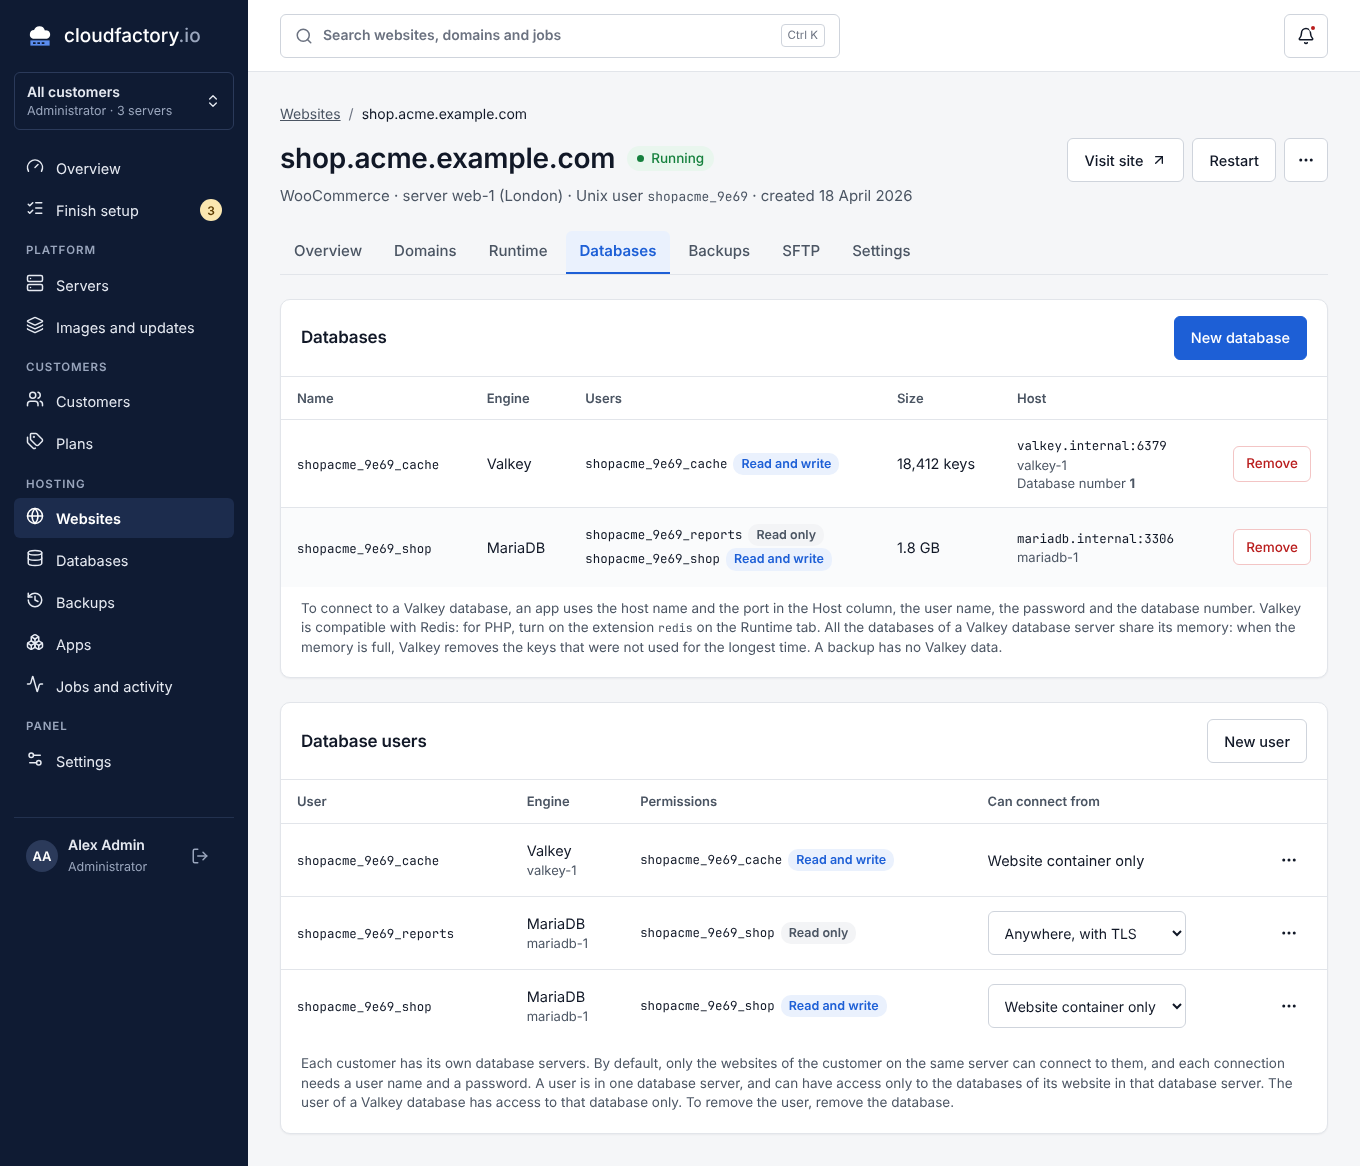
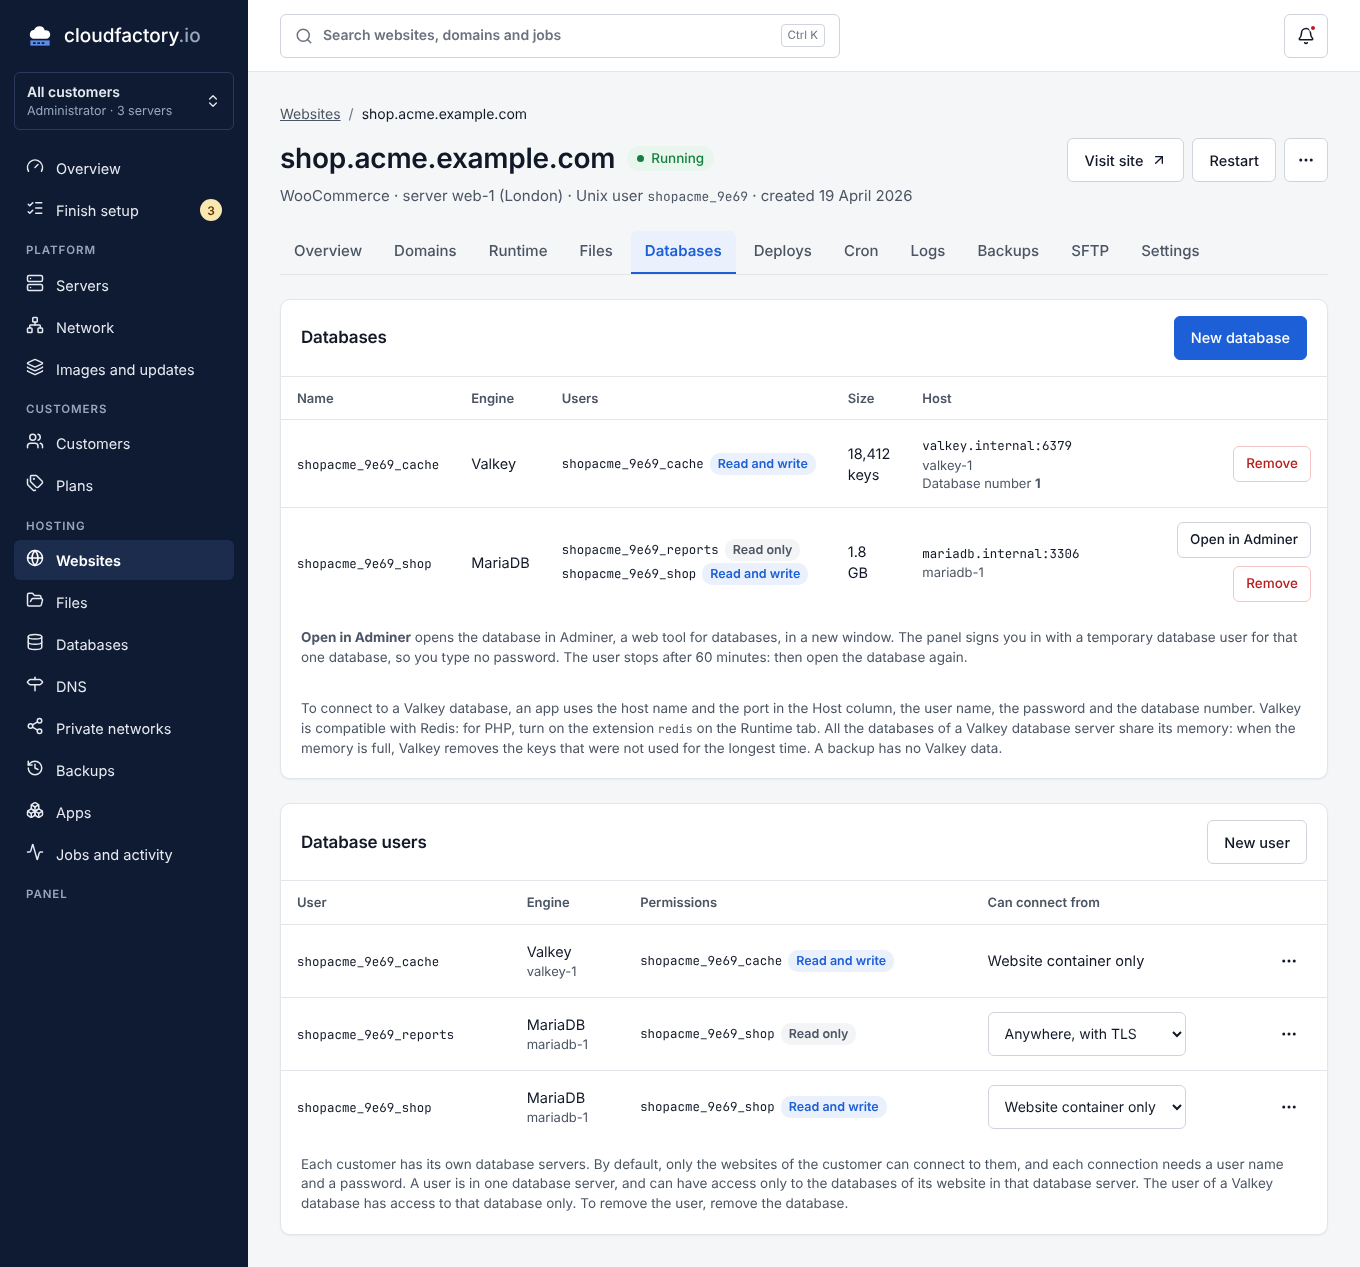
Stop the Adminer version check, space the row buttons, add screenshots
Adminer asked adminer.org for its newest version from the browser of the
user. Stop the request and let the browser connect only to Adminer. Put a
gap between the buttons of a database row. Update the screenshots of the
Databases tab and add one of Adminer after the sign-in.

Claude-Session: https://claude.ai/code/session_016DWqw5Qg3d2MMkwskmYAb3

diff --git a/web/src/features/DatabasesPanel.tsx b/web/src/features/DatabasesPanel.tsx
@@ -128,13 +128,15 @@ export function DatabasesPanel({ websiteId }: { websiteId?: string }) {
                       <span className="cell-sub">{serverName(d.databaseServerId) ?? "Database server"}</span>
                       {d.engine === "valkey" && <span className="cell-sub">{d.number === undefined ? "The number comes when the job is complete" : <>Database number <strong>{d.number}</strong></>}</span>}
                     </td>
-                    <td className="cell-actions" style={{ width: 240 }}>
+                    <td className="cell-actions" style={{ width: 260 }}>
+                      <div className="cell-buttons">
                       {d.engine !== "valkey" && (
                         <button type="button" className="btn btn-sm" disabled={adminer?.id === d.id && !adminer.error} onClick={() => openAdminer(d)}>
                           {adminer?.id === d.id && !adminer.error ? "Opening…" : "Open in Adminer"}
                         </button>
                       )}
                       <ConfirmButton className="btn btn-sm btn-danger" title={`Remove database ${d.name}?`} confirm="Remove database" message={d.engine === "valkey" ? <p>The data and the user of the database are removed now. A backup has no Valkey data, so you cannot restore it.</p> : <p>The data is removed now. The users of this database lose access to it. You can restore it from a backup for the retention period.</p>} onConfirm={() => deleteDatabase(d.id)}>Remove</ConfirmButton>
+                      </div>
                     </td>
                   </tr>
                 );

diff --git a/web/src/styles/app.css b/web/src/styles/app.css
@@ -354,6 +354,8 @@ a.cell-title:hover { text-decoration: underline; }
 .cell-sub { display: block; color: var(--text-muted); font-size: 13px; }
 .cell-sub.mono { font-size: 12px; }
 .cell-actions { width: 56px; text-align: right; }
+/* More than one button in an actions cell: one row, with a gap. */
+.cell-buttons { display: flex; flex-wrap: wrap; gap: 8px; justify-content: flex-end; }
 
 .table-footer {
   display: flex; align-items: center; justify-content: space-between; gap: 12px;
@@ -812,6 +814,7 @@ a.stat-link .stat-value { margin-bottom: 8px; }
   .table-cards td[data-label]:first-child { padding-left: 0; padding-bottom: 6px; padding-right: 44px; }
   .table-cards td[data-label]:first-child::before { content: none; }
   .table-cards td.cell-actions { padding-top: 8px; }
+  .table-cards .cell-buttons { justify-content: flex-start; }
   /* The menu of a row is at the top right of its card. */
   .table-cards td.cell-actions:has(> .menu) { position: absolute; top: 4px; right: 6px; padding: 0; }
   .table-cards .grant { flex-wrap: wrap; white-space: normal; }

diff --git a/images/adminer/index.php b/images/adminer/index.php
@@ -12,6 +12,12 @@
 //   check gives a clear message before the connection.
 // - Adminer shows only the databases of the sign-in: the temporary database user has access to
 //   those databases only.
+// - Adminer does not ask adminer.org for a new version. The image has a fixed version, and the
+//   browser of the user does not connect to a different site.
+
+// Adminer asks adminer.org for its newest version when this cookie has no value. The value 0
+// stops the request and shows no version notice.
+$_COOKIE['adminer_version'] = '0';
 
 function adminer_object()
 {
@@ -87,8 +93,10 @@ function adminer_object()
         public function csp(array $csp)
         {
             // No page of a different site can show Adminer in a frame.
+            // The browser connects only to Adminer.
             foreach ($csp as &$policy) {
                 $policy['frame-ancestors'] = "'none'";
+                $policy['connect-src'] = "'self'";
             }
 
             return $csp;

diff --git a/docs/screenshots/README.md b/docs/screenshots/README.md
@@ -84,7 +84,7 @@ The overview of a website. A failed job that a later job resolved shows as "Fail
 
 ### admin-12-website-databases
 
-The databases of a website, with a Valkey database. The actions of a database user are in one menu.
+The databases of a website, with a Valkey database. A MariaDB or PostgreSQL database has **Open in Adminer**. The actions of a database user are in one menu.
 
 ![admin-12-website-databases](admin-12-website-databases.png)
 
@@ -293,6 +293,18 @@ A DNS zone with its name servers, DNSSEC and records.
 The dialogue to add a DNS record.
 
 ![owner-17-dns-add-record](owner-17-dns-add-record.png)
+
+### owner-18-website-databases
+
+The databases of a website. **Open in Adminer** opens a MariaDB or PostgreSQL database in Adminer in a new window.
+
+![owner-18-website-databases](owner-18-website-databases.png)
+
+### owner-19-adminer
+
+Adminer after **Open in Adminer**. The panel signed in with a temporary database user for this database only. The user typed no password.
+
+![owner-19-adminer](owner-19-adminer.png)
 
 ## Phone width (390 px)
 

diff --git a/docs/security.md b/docs/security.md
@@ -181,6 +181,8 @@ The product specification, section 6.4, gives the requirements.
   sign-in.
 - Adminer has no permanent login, sends `Cache-Control: no-store`, and refuses frames from
   other sites (`frame-ancestors 'none'` and `X-Frame-Options: DENY`).
+- Adminer does not ask `adminer.org` for a new version, and its content security policy lets
+  the browser connect only to Adminer (`connect-src 'self'`).
 
 ## Domains
 
